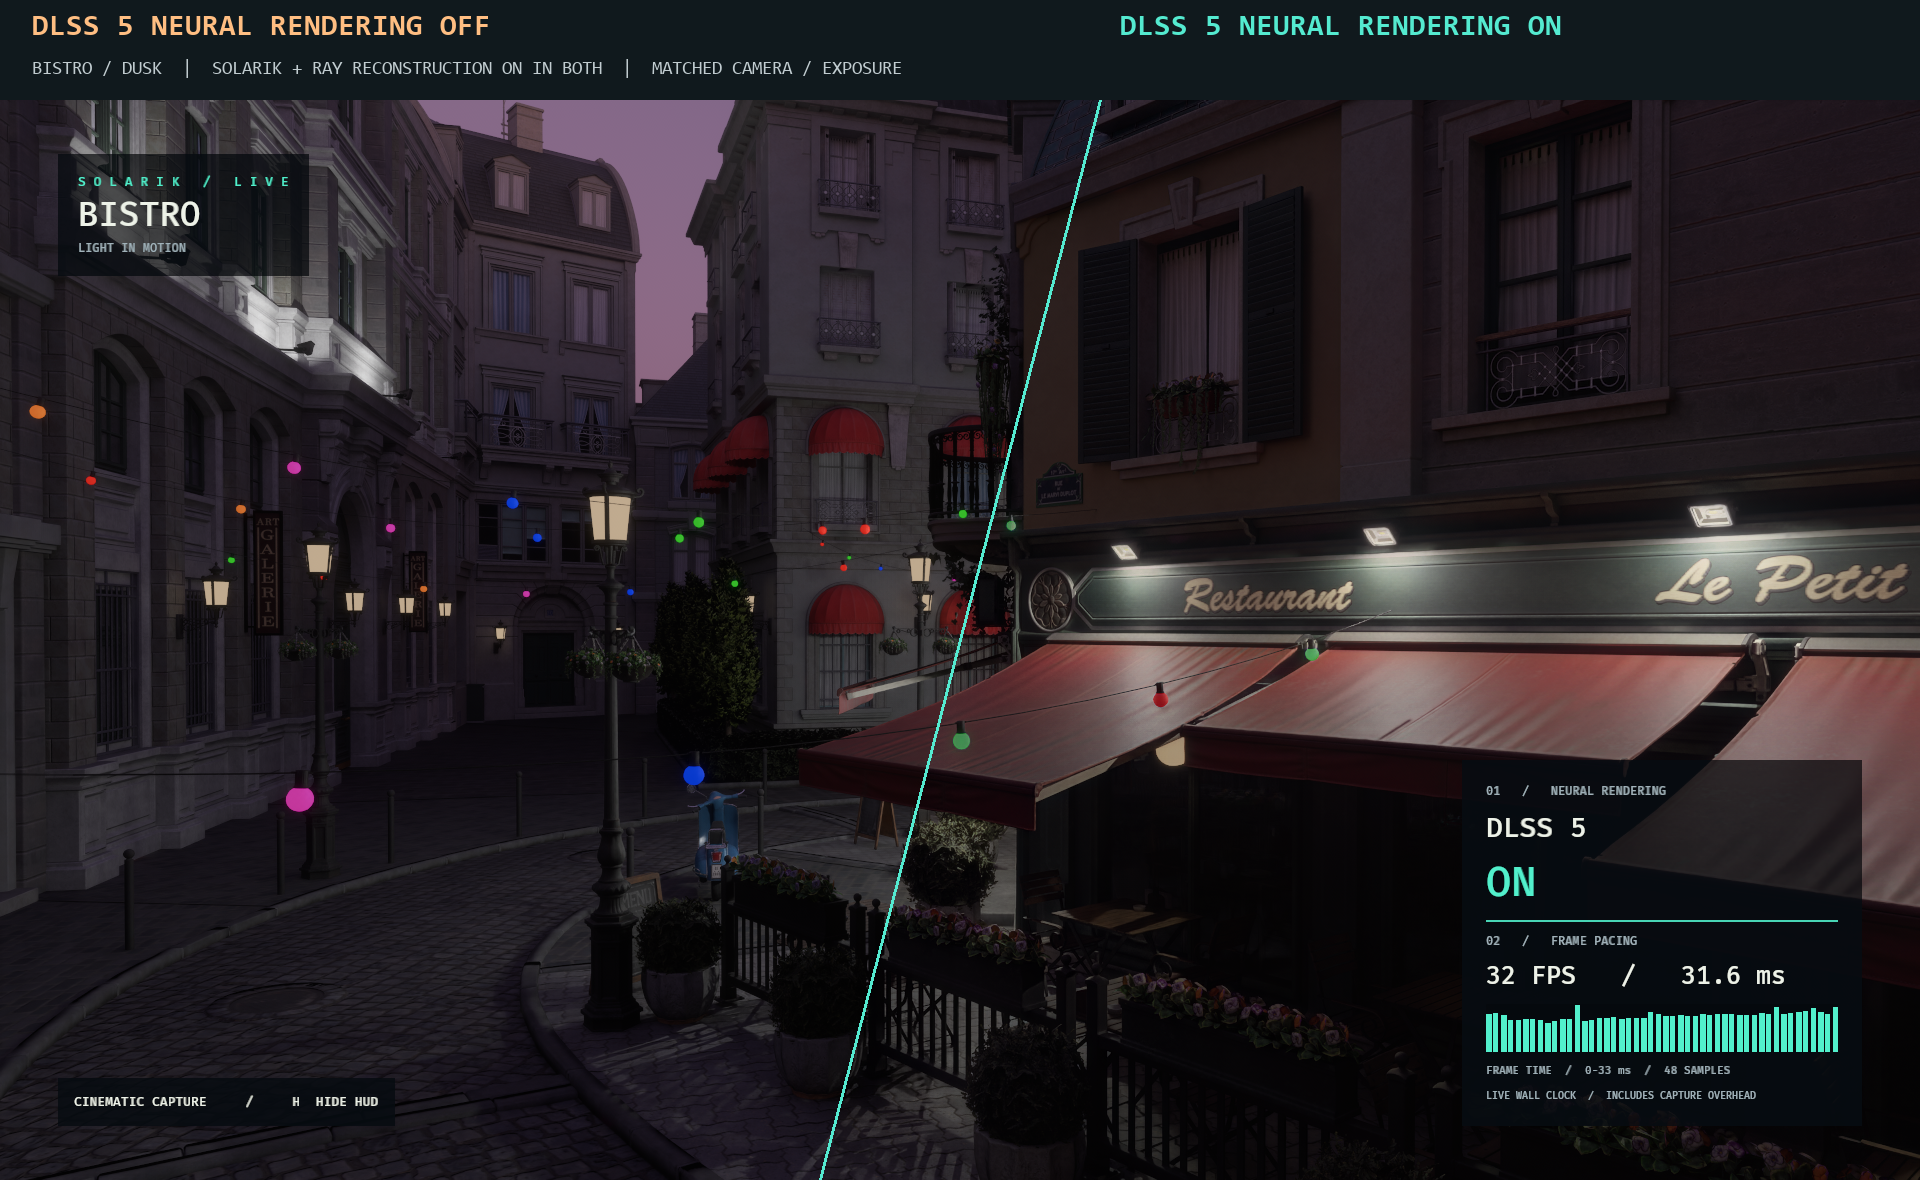
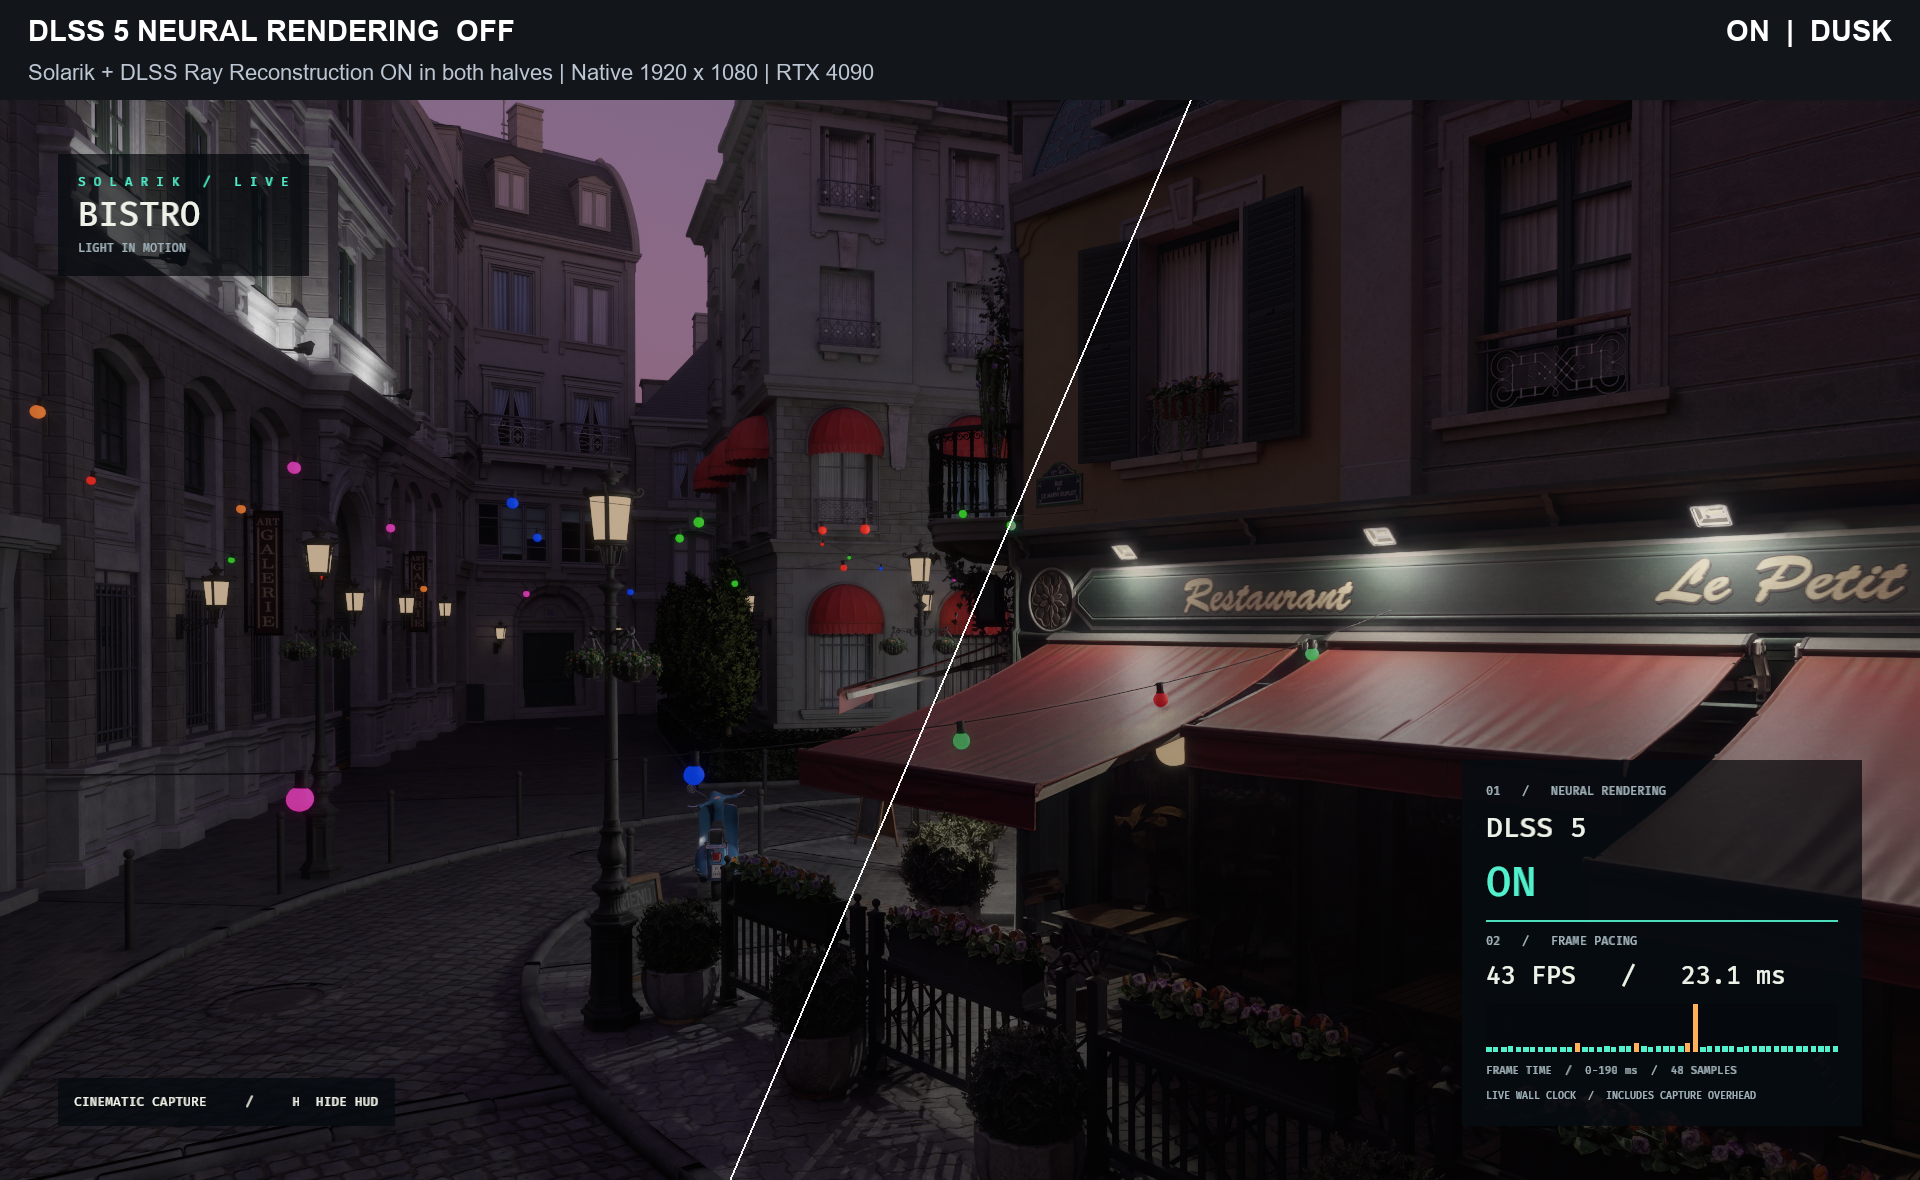
docs: refresh captures for the weapon inspection build

diff --git a/docs/captures.md b/docs/captures.md
@@ -1,6 +1,65 @@
 # README capture record
 
-## Current images with the corrected Bistro interior
+## Current images from the weapon inspection build
+
+September 7, 2026 (local): refreshed from the integrated release build containing
+the weapon import and inspection scene. Source bases: playground `fc946ff`,
+Solarik `c531ee0` and DLSS5 `ee359d5`, plus the weapon inspection changes.
+The Bistro scene and renderer source are unchanged by this iteration.
+Executable SHA-256:
[1 lines of base64/hex data omitted]
+Windows/Vulkan, RTX 4090, NVIDIA Studio driver 616.56; build with
+`cargo build --release --locked` in the playground.
+
+These images retain the corrected exterior/interior import described below.
+GPU atmosphere uses High quality, density scales 1, Mie g 0.8, 2,000 m aerial
+distance and IBL scale 1. Native-resolution DLSS Ray Reconstruction is active.
+The preset supplies exposure (12.5/5.0 EV100 day/night) and lamps.
+`SCENE_FX=blur` and `SCENE_DIAG=0`; every warmup holds camera and lighting fixed.
+Historical `night` filenames contain dusk views.
+
+All four images render at 1920×1080. The day pose is timeline 750 / 1800
+with 512 warmup frames; dusk is 1520 / 1800 with 1,024. Both full HUD images
+have NR on. Comparisons use matching pose, exposure and warmup with NR off/on.
+Matching playground copies are byte-identical.
+
+Independent warmups measure mean sRGB-decoded display-linear luminance with
+weights (0.2126, 0.7152, 0.0722). Absolute changes use the same 0–1 scale.
+
+| View / region | Rectangle x, y, width, height | Warmup frames | Change | Absolute change |
+| --- | --- | --- | ---: | ---: |
+| HUD day pavement | 215, 965, 275, 95 | 128 to 512 | +1.39% | +0.000258 |
+| HUD day facade | 1125, 50, 450, 225 | 128 to 512 | -0.19% | -0.000060 |
+| HUD day wall | 555, 590, 250, 165 | 128 to 512 | +2.38% | +0.000132 |
+| HUD dusk pavement | 50, 860, 380, 125 | 512 to 1024 | +0.60% | +0.000061 |
+| HUD dusk facade | 65, 75, 335, 225 | 512 to 1024 | -0.01% | -0.000009 |
+| HUD dusk wall | 1075, 830, 255, 140 | 512 to 1024 | -1.04% | -0.000039 |
+
+The diagonal comparisons use the OFF source on the left and ON on the right,
+preserving source pixels except for the narrow divider and a 100-pixel external
+label strip. The lower-right HUD comes from the ON source. Separate runs retain
+stochastic lighting differences; HUD timings include capture overhead and do
+not benchmark isolated Neural Rendering cost.
+
+
+All final images were inspected. All 14 serial Bistro runs produced fresh PNGs,
+exited normally and had no shader or validation errors. NR ON logs confirm active
+evaluation and explicit feature release. The organizer's local
+`artifacts/bevy-sponza/weapon_import_capture.py` records exact launch environments
+and image hashes; `weapon_import_audit.py` records source/binary identity,
+regional settling and all 12 README image paths with matching duplicate hashes.
+Its receipts are `wii-build.json`, `wii-settling.json`,
+`wii-readme-inventory.json` and `wii-final-audit.json`. The latter records one
+nonsemantic difference after capture: final whitespace review removed a trailing
+blank line from the weapon preset, verified by restoring that single newline
+and matching its captured SHA-256. All executable sources and scene values match.
+
+These bounded samples do not establish full convergence. Dark interiors,
+foliage softness and stochastic spatial variation remain. The night control's
+cafe wall changes -3.17% (-0.000166) from 2,048 to 4,096 warmup frames; the
+existing night-image-quality follow-up remains open.
+
+## Historical images with the corrected Bistro interior
 
 September 6, 2026 (local): refreshed from the final integrated release build
 after repairing the Bistro interior import. Source bases: Solarik `df9a05a`,

diff --git a/README.md b/README.md
@@ -39,8 +39,8 @@ pixel-exact measurement of Neural Rendering alone.
 
 The HUD reports live backend status, FPS and application frame times. Timings
 include capture overhead; these images are not an ON/OFF performance comparison.
-Refreshed September 6, 2026 with Solarik's GPU atmosphere and the Bistro
-interior reimported at its correct scale. These use frames 750 (day) and 1520
+Refreshed September 7, 2026 from the integrated weapon-inspection build,
+with Solarik's GPU atmosphere and the correctly scaled Bistro interior. These use frames 750 (day) and 1520
 (dusk) of the 1,800-frame timeline, with 512 and 1,024 fixed-pose warmup frames
 respectively. Exposure,
 lights and motion blur use the scene preset; extra grading and local artistic
